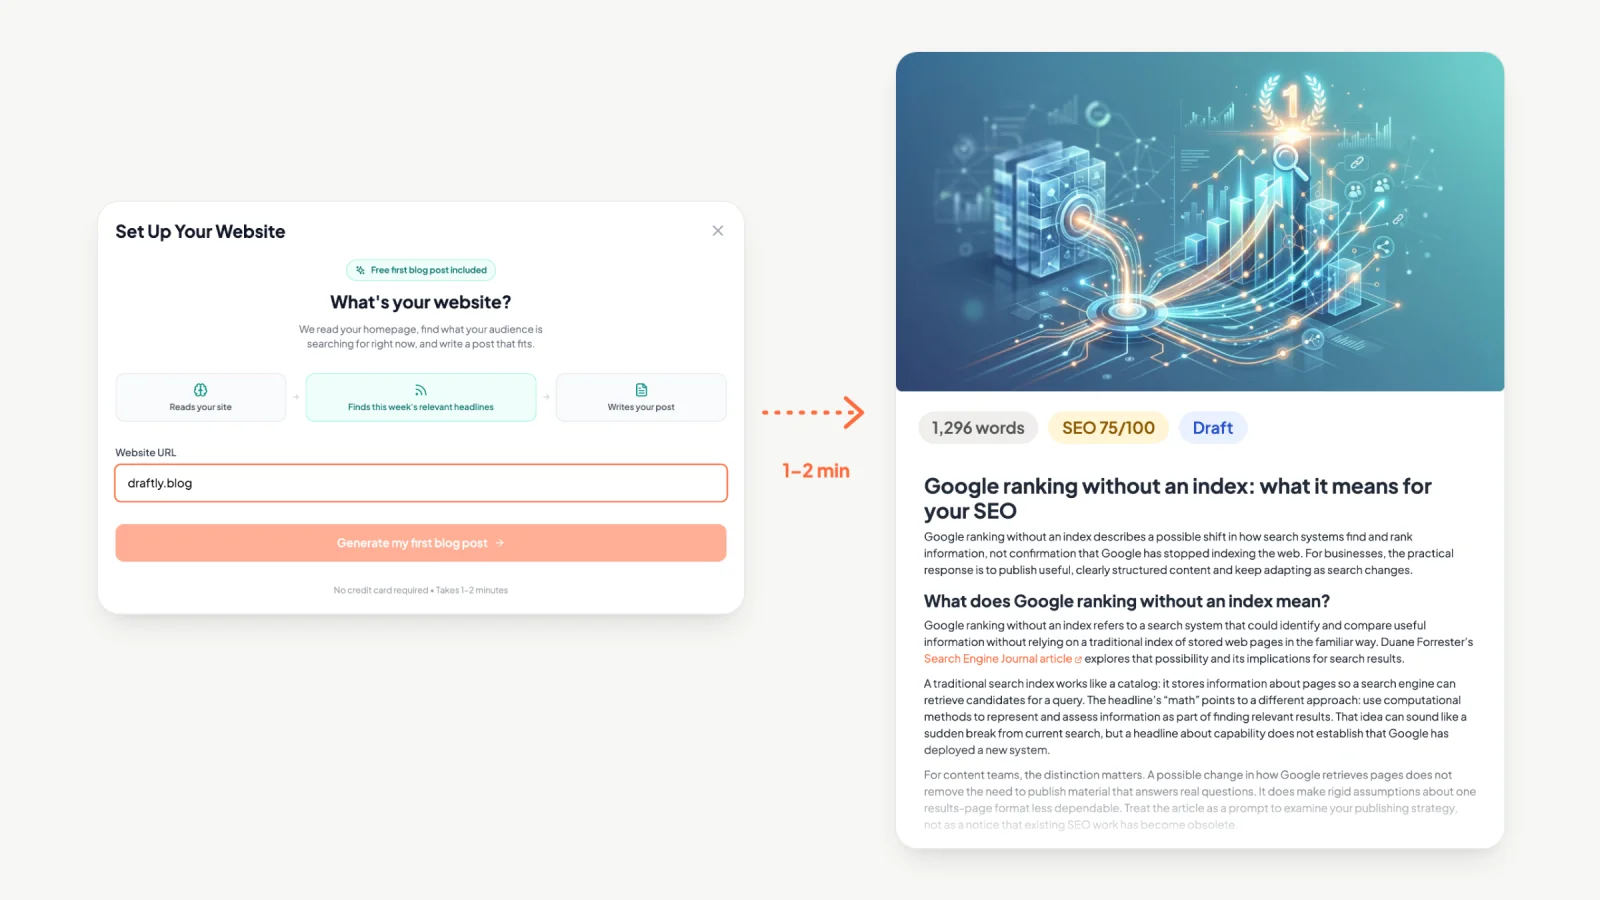
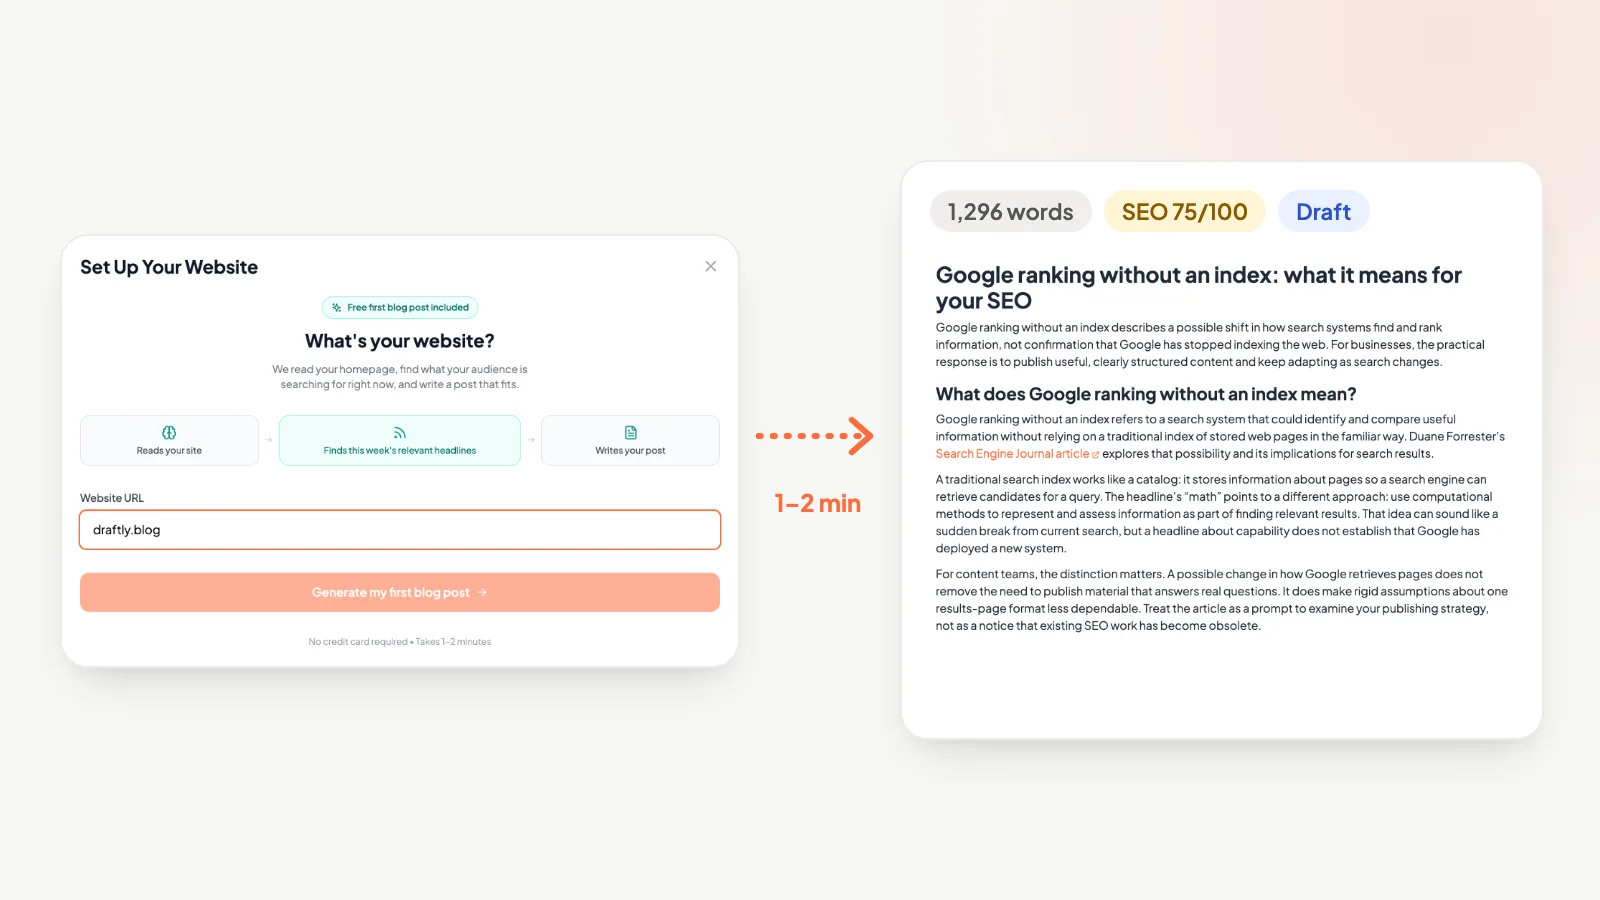
Guide image without AI thumbnail, GA4 tag, homepage order
- guide-url-to-post.webp: rebuilt from the homepage showcase so the post
  card starts at the word count, SEO score and H1 (no AI-generated image);
  alt text no longer mentions a featured image.
- GoogleAnalytics: GA4 via next/script, only when
  NEXT_PUBLIC_GA_MEASUREMENT_ID is set; Signals and ad personalization off.
- Homepage: Every Draft Gets Checked moves up after the showcase; the video
  moves down to just above pricing.

Changed region(s): [[0.4688, 0.0311, 0.9688, 0.9022], [0.0312, 0.28, 0.4688, 0.7467], [0.0312, 0.2489, 0.1875, 0.3111]]

diff --git a/lib/product-shots.ts b/lib/product-shots.ts
@@ -92,7 +92,7 @@ export const INTEGRATIONS_SHOT = shot(
 /** 16:9 graphics for the long-form guide pages (/ai-copywriter, /seo-copywriting, /ai-seo-agency-vs-tool). */
 export const GUIDE_SHOTS = {
   urlToPost: shot("guide-url-to-post.webp", 1600, 900,
-    "Draftly's setup screen with a website URL entered, and the finished post it produced: featured image, 1,296 words, SEO score 75/100 and the opening of the article",
+    "Draftly's setup screen with a website URL entered, and the finished post it produced: 1,296 words, SEO score 75/100, Draft status and the opening of the article",
     "A real first run: a URL in, a 1,296-word draft with SEO meta out."),
   genericVsDraftly: shot("guide-generic-vs-draftly-copy.webp", 1600, 900,
     "A generic AI paragraph with flagged phrases highlighted (banned_vocabulary, contrast_phrasing, hedging, mechanical_openers) beside the opening of a real Draftly post that triggers none of them",

diff --git a/app/page.tsx b/app/page.tsx
@@ -45,7 +45,7 @@ export default async function HomePage() {
         <script type="application/ld+json" dangerouslySetInnerHTML={{ __html: jsonLdHtml(softwareApplicationJsonLd) }} />
         <HeroDemo settings={data.marketingSettings} startingPrice={PAID_PLANS[0].price} />
         <ProductShowcase />
-        <VideoSection />
+        <BeforeAfter />
         <PersonalStory />
         <TestimonialSlider testimonials={data.testimonials.nodes} />
         <CtaBand
@@ -55,7 +55,6 @@ export default async function HomePage() {
         />
         <HowItWorks />
         <Features />
-        <BeforeAfter />
         <Integrations />
         <CtaBand
           tone="accent"
@@ -66,6 +65,7 @@ export default async function HomePage() {
         <NotForEveryone />
         <HomeGuides />
         <ScrollingBands />
+        <VideoSection />
         <HomePricing />
         <FAQ faqs={data.faqs.nodes} />
         <CtaBand

diff --git a/components/GoogleAnalytics.tsx b/components/GoogleAnalytics.tsx
@@ -1,0 +1,21 @@
+import Script from "next/script";
+
+// GA4 for draftly.blog. Renders nothing until NEXT_PUBLIC_GA_MEASUREMENT_ID is set
+// (Vercel → draftly-marketing-cms → Environment Variables). Google Signals and ad
+// personalization stay off: the privacy policy promises no advertising cookies.
+const GA_ID = process.env.NEXT_PUBLIC_GA_MEASUREMENT_ID;
+
+export function GoogleAnalytics() {
+  if (!GA_ID || !/^G-[A-Z0-9]+$/.test(GA_ID)) return null;
+  return (
+    <>
+      <Script src={`https://www.googletagmanager.com/gtag/js?id=${GA_ID}`} strategy="afterInteractive" />
+      <Script id="ga4-init" strategy="afterInteractive">
+        {`window.dataLayer = window.dataLayer || [];
+function gtag(){dataLayer.push(arguments);}
+gtag('js', new Date());
+gtag('config', '${GA_ID}', { allow_google_signals: false, allow_ad_personalization_signals: false });`}
+      </Script>
+    </>
+  );
+}

diff --git a/app/layout.tsx b/app/layout.tsx
@@ -2,6 +2,7 @@ import type { Metadata } from "next";
 import { Plus_Jakarta_Sans } from "next/font/google";
 import "./globals.css";
 import { GlobalAnimations } from "@/components/GlobalAnimations";
+import { GoogleAnalytics } from "@/components/GoogleAnalytics";
 import { jsonLdHtml, organizationJsonLd, personJsonLd, websiteJsonLd } from "@/lib/schema";
 import { HOME_DESCRIPTION, HOME_TITLE, SITE_URL } from "@/lib/site";
 
@@ -39,6 +40,7 @@ export default function RootLayout({
         <script type="application/ld+json" dangerouslySetInnerHTML={{ __html: jsonLdHtml(organizationJsonLd, personJsonLd, websiteJsonLd) }} />
         {children}
         <GlobalAnimations />
+        <GoogleAnalytics />
       </body>
     </html>
   );
